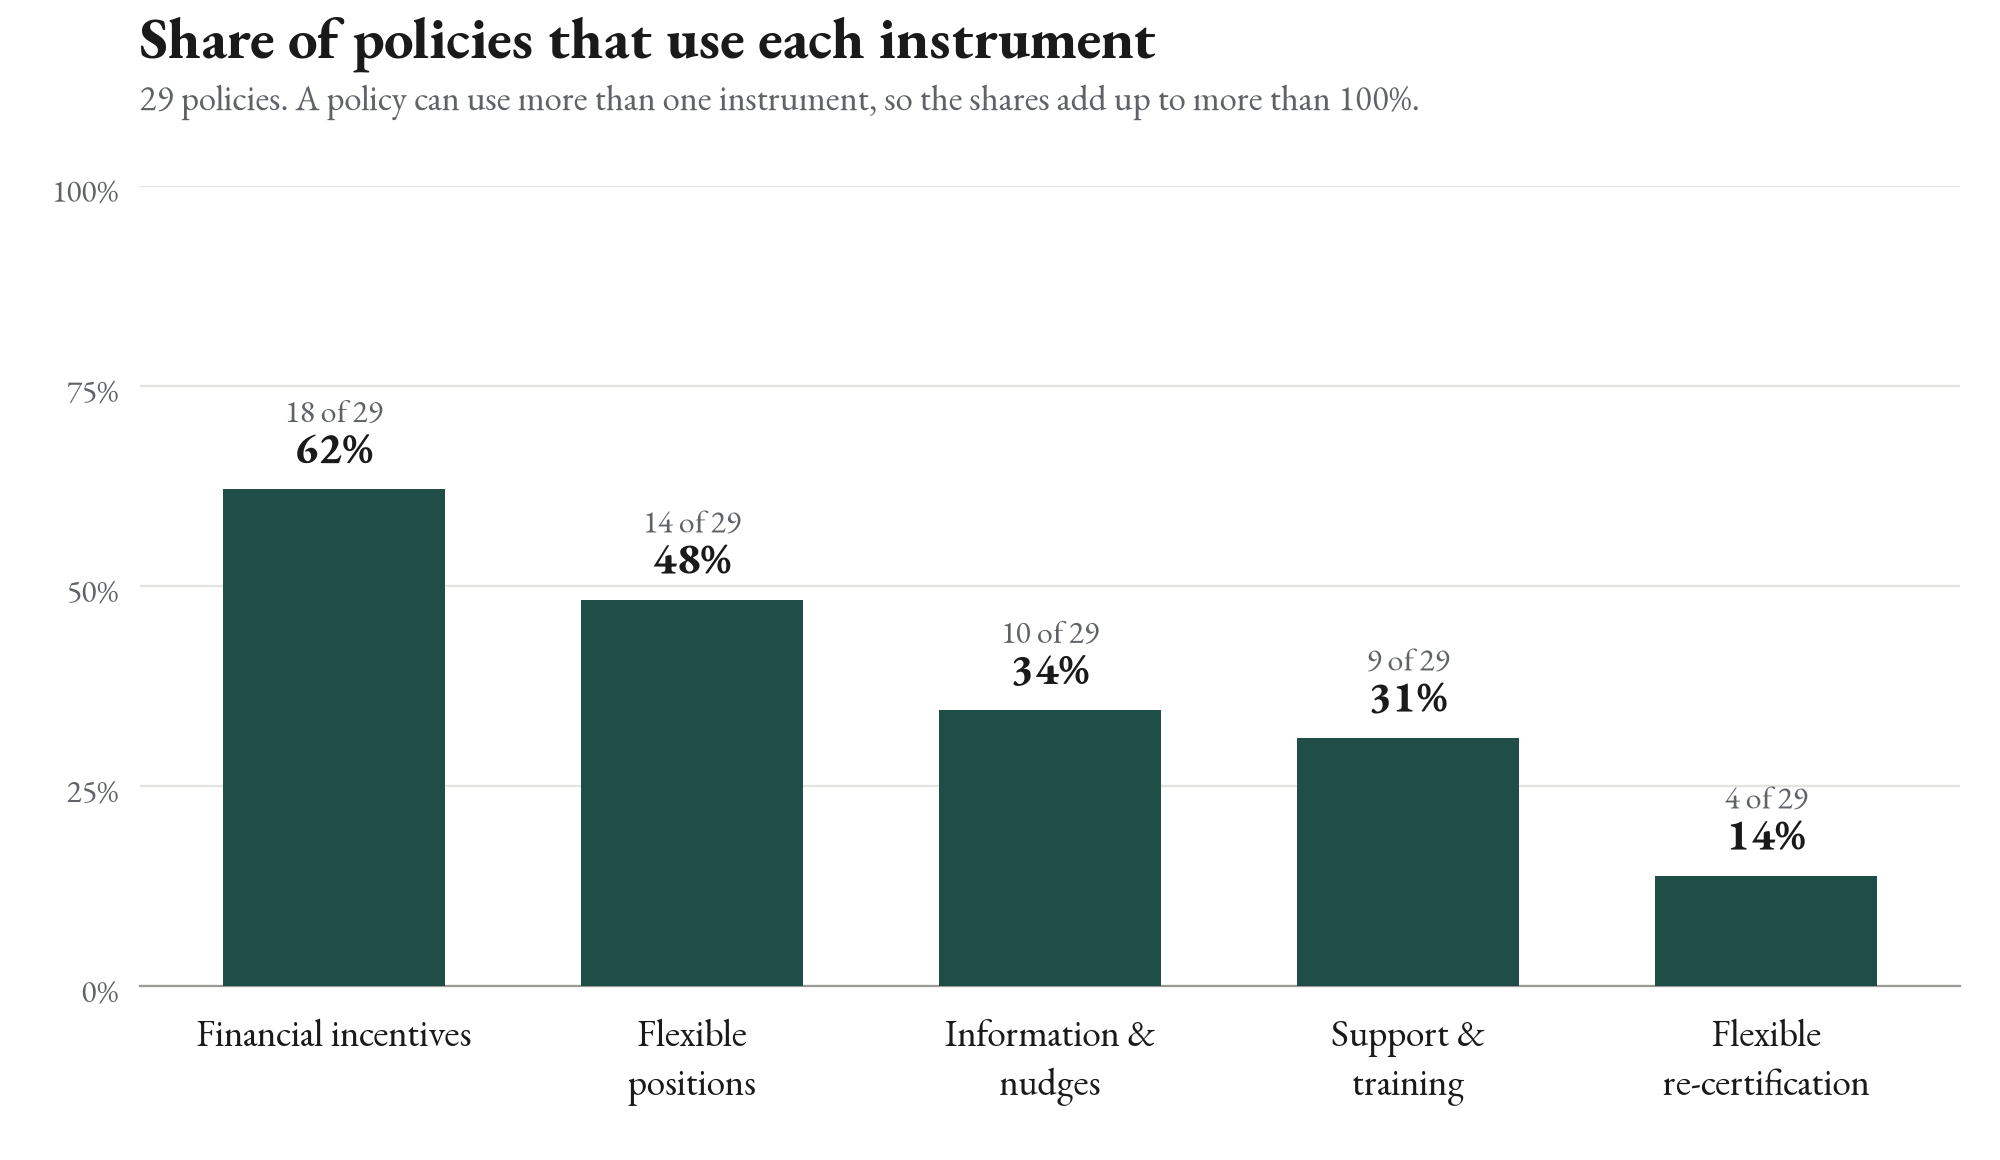
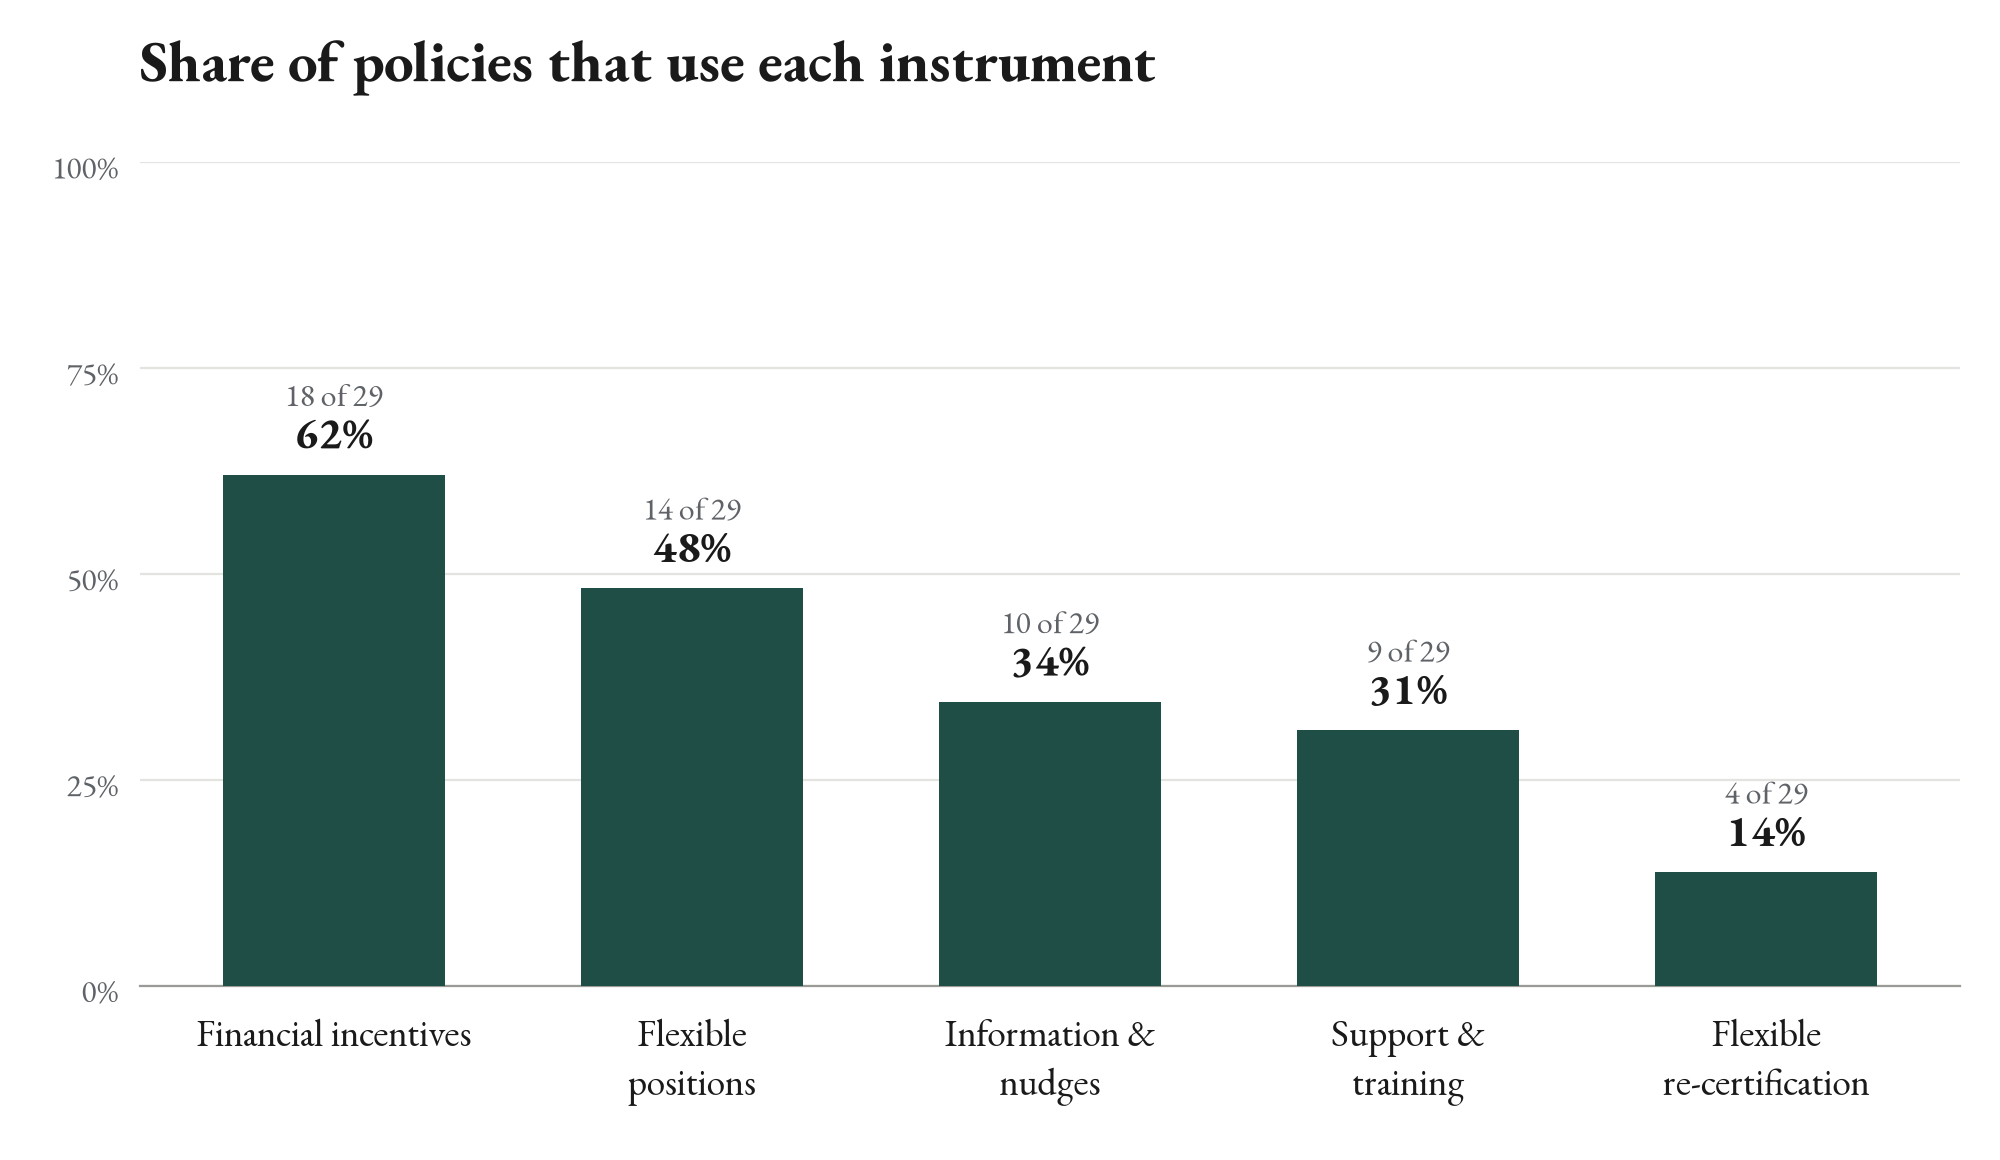
Remove subtitles from the instrument and scale charts
Claude-Session: https://claude.ai/code/session_01REVwghctKjYh8VQ919ThdA

diff --git a/policies/build/build_charts.py b/policies/build/build_charts.py
@@ -48,10 +48,8 @@ for s in ["top", "right", "left"]:
     ax.spines[s].set_visible(False)
 ax.spines["bottom"].set_color("#9A9A96")
 ax.tick_params(axis="both", length=0, pad=8)
-fig.text(0.07, 0.95, "Share of policies that use each instrument", fontsize=21, fontweight="bold", color=INK)
-fig.text(0.07, 0.905, f"{N} policies. A policy can use more than one instrument, so the shares add up to more than 100%.",
-         fontsize=12.5, color=MUTED)
-fig.subplots_adjust(left=0.07, right=0.98, top=0.84, bottom=0.15)
+fig.text(0.07, 0.93, "Share of policies that use each instrument", fontsize=21, fontweight="bold", color=INK)
+fig.subplots_adjust(left=0.07, right=0.98, top=0.86, bottom=0.15)
 fig.savefig(os.path.join(OUT, "instruments_share.png"), facecolor="white")
 plt.close(fig)
 
@@ -77,9 +75,8 @@ for w, s, v in zip(wedges, labels, vals):
         ax.text(x, y, f"{s}\n{p:.0f}%", ha="center", va="center", fontsize=17, fontweight="bold", color="white")
         ax.text(x, y - 0.2, f"{v} policies", ha="center", va="top", fontsize=12, color="white")
 ax.set_aspect("equal")
-fig.text(0.06, 0.94, "Policies by scale", fontsize=21, fontweight="bold", color=INK)
-fig.text(0.06, 0.895, f"{N} policies", fontsize=12.5, color=MUTED)
-fig.subplots_adjust(left=0.04, right=0.96, top=0.86, bottom=0.03)
+fig.text(0.06, 0.93, "Policies by scale", fontsize=21, fontweight="bold", color=INK)
+fig.subplots_adjust(left=0.04, right=0.96, top=0.88, bottom=0.03)
 fig.savefig(os.path.join(OUT, "policies_by_scale.png"), facecolor="white")
 plt.close(fig)
 
